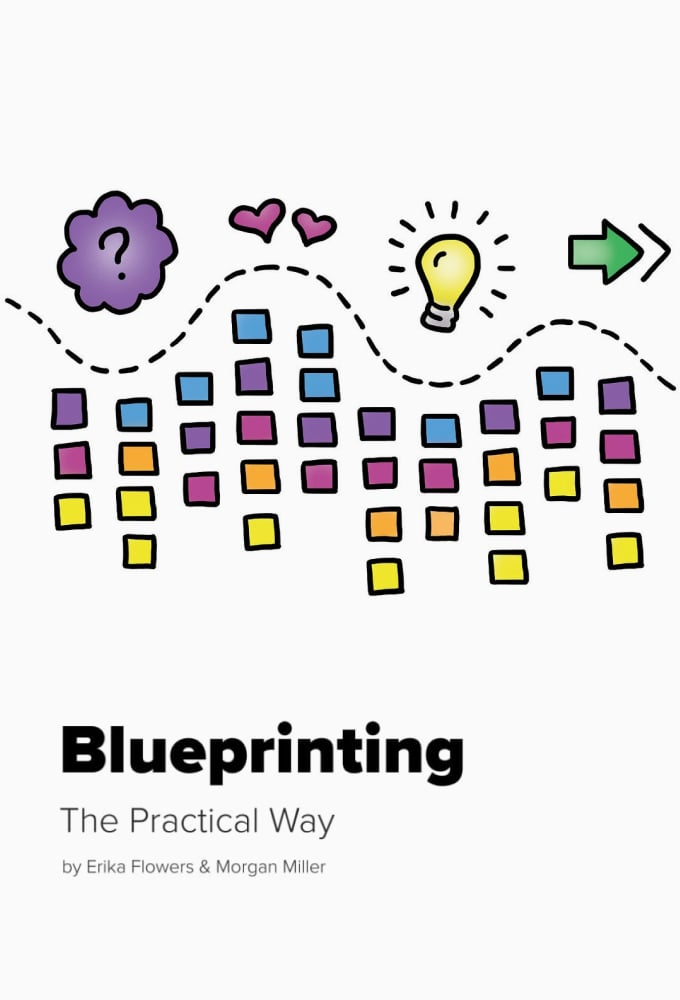
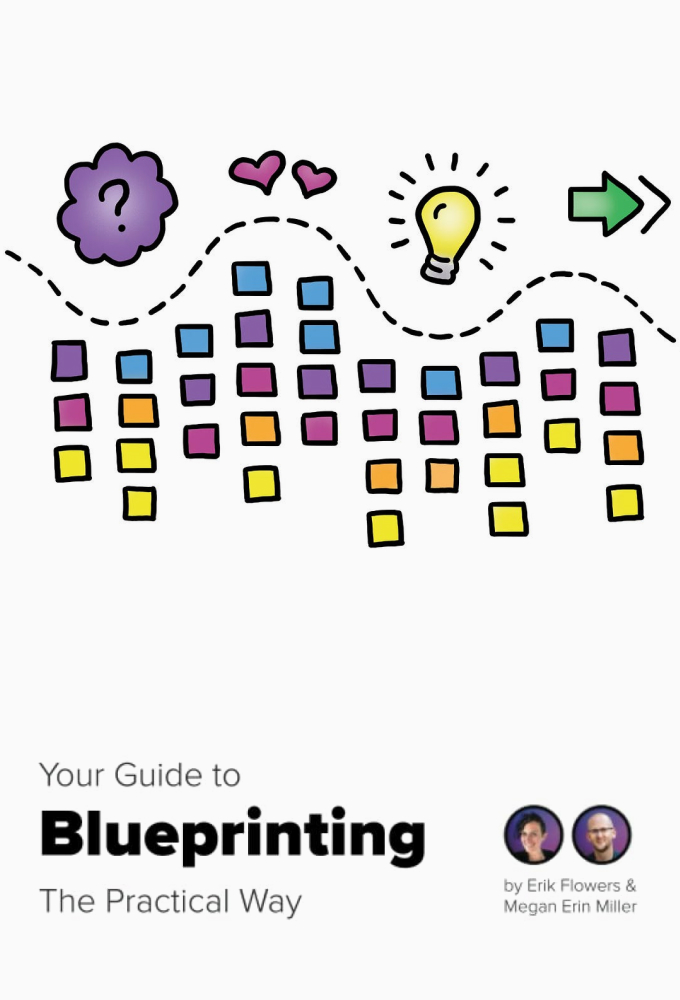
update

Changed region(s): [[0.0, 0.124, 1.0, 0.62], [0.0618, 0.713, 0.6794, 0.93], [0.7412, 0.806, 0.9265, 0.93]]

diff --git a/src/constants/books.ts b/src/constants/books.ts
@@ -2,40 +2,6 @@ import { Book } from '@/types/Book';
 
 export const books: Book[] = [
 	{
-		title: 'Your Guide to Blueprinting the Practical Way',
-		slug: `blueprinting-the-practical-way`,
-		authors: [
-			{
-				name: 'Erika Flowers',
-				link: 'https://www.helloerikaflowers.com/',
-			},
-			{
-				name: 'Morgan Miller',
-				link: 'https://www.linkedin.com/in/morganbrandonmiller/',
-			},
-		],
-		coverImage: '/books/flowers.jpg',
-		metadata: {
-			shortname: 'Blueprinting the Practical Way',
-			blurb: 'A practical guide to blueprinting, covering essential techniques for creating detailed and accurate blueprints for various projects.',
-			genre: 'Technical Design',
-			pageCount: 250,
-			publisher: 'Technical Publications Inc.',
-			publishYear: 2024,
-		},
-		link: {
-			amazon: 'https://amzn.to/4lDainY',
-			goodreads:
-				'https://www.goodreads.com/book/show/64406200-your-guide-to-blueprinting-the-practical-way',
-		},
-		quote: {
-			attribute: 'Erika Flowers & Morgan Miller',
-			text: 'Blueprinting is more than just drawing lines; it’s about visualizing the future and making it tangible.',
-		},
-		personalComment:
-			'Flowers and Miller demystify blueprinting with hands-on advice and clear visuals. This book is a boon for students and professionals seeking to master the art of technical drawings. It bridges the gap between theory and practice, ensuring readers can confidently create blueprints that translate into real-world results. A must-read for anyone serious about precision and accuracy in design.',
-	},
-	{
 		title: 'Designing Interfaces: Patterns for Effective Interaction Design',
 		slug: `designing-interfaces-patterns-for-effective-interaction-design`,
 		authors: [
@@ -63,7 +29,7 @@ export const books: Book[] = [
 			text: 'A user interface is well-designed when the program behaves exactly how the user thought it would.',
 		},
 		personalComment:
-			'This book distills decades of interface design wisdom into clear, reusable patterns that solve real-world challenges. It’s not just about making things look good—it’s about making systems understandable, predictable, and humane. For UX designers, this is a reference manual for creating interfaces that align with human expectations and support user goals. It strengthens your design vocabulary and provides a shared language for working across disciplines. If you’re serious about designing with clarity, empathy, and intent, Designing Interfaces is essential—it bridges aesthetics with behavioural insight and shows how small design choices can create big impact.',
+			'Designing Interfaces is essential reading for anyone serious about designing for clarity, empathy, and intent. It book distills decades of interface design wisdom into clear, reusable patterns that address real-world challenges. It’s not just about making things look good—it’s about making systems more understandable, more predictable, and more humane.\n\nIt’s a reference manual for building interfaces that align with human expectations and support real goals. It connects aesthetics with behavioural insight and shows how small design decisions shape meaningful experiences. It sharpens your design vocabulary and creates a shared language for working across disciplines.\n\n ',
 	},
 	{
 		title: 'The Decision Book: Fifty Models for Strategic Thinking',
@@ -71,9 +37,11 @@ export const books: Book[] = [
 		authors: [
 			{
 				name: 'Mikael Krogerus',
+				link: 'https://de.wikipedia.org/wiki/Mikael_Krogerus',
 			},
 			{
 				name: 'Roman Tschäppeler',
+				link: 'https://de.wikipedia.org/wiki/Roman_Tsch%C3%A4ppeler',
 			},
 		],
 		coverImage: '/books/krogerus.jpg',
@@ -388,8 +356,7 @@ export const books: Book[] = [
 			attribute: 'Nir Eyal',
 			text: 'The goal is not to resist every distraction, but to manage them.',
 		},
-		personalComment:
-			'Eyal provides a practical toolkits for reclaiming focus (and as designers, not stealing it from others). In an age of constant pings and notifications, this book offers a framework for understanding the root causes of distraction and actionable strategies for building habits that stick. It talks about connecting action with intention, and controlling time and attention.',
+		personalComment: `In a world where products are designed to hijack attention, this book flips the lens: how do we protect our focus—and respect others? Eyal offers a framework for recognising distraction, managing internal triggers, and aligning actions with intent. For designers, this isn’t just self-help. It’s a wake-up call. We shape the digital environments that either support or sabotage attention. Indistractable pushes you to think about ethical design from the inside out. If your work nudges behaviour, this book helps you take responsibility for what—and who—you’re nudging. Clear, actionable, and refreshingly candid, it’s also a toolkit for managing your time, focus, and workflow. Not to be productive for productivity’s sake, but to protect what matters.`,
 	},
 	{
 		title: 'Information Architecture: Blueprints for the Web',
@@ -759,5 +726,39 @@ export const books: Book[] = [
 		},
 		personalComment:
 			"The first book published by O’Reilly Books, 'The Whole Internet' is a a snapshot of the early web: messy, open, and full of possibility. A reminder of the internet’s original spirit: decentralised, user-driven, and experimental. While very outdated, it offers a perspective on how far we’ve come—and what we may have lost. It's important for people building on the internet to reconnect with a more human, curious, and DIY approach to designing spaces.",
+	},
+	{
+		title: 'Your Guide to Blueprinting the Practical Way',
+		slug: `blueprinting-the-practical-way`,
+		authors: [
+			{
+				name: 'Erika Flowers',
+				link: 'https://www.helloerikaflowers.com/',
+			},
+			{
+				name: 'Morgan Miller',
+				link: 'https://www.linkedin.com/in/morganbrandonmiller/',
+			},
+		],
+		coverImage: '/books/flowers.jpg',
+		metadata: {
+			shortname: 'Blueprinting the Practical Way',
+			blurb: 'A practical guide to blueprinting, covering essential techniques for creating detailed and accurate blueprints for various projects.',
+			genre: 'Technical Design',
+			pageCount: 250,
+			publisher: 'Technical Publications Inc.',
+			publishYear: 2024,
+		},
+		link: {
+			amazon: 'https://amzn.to/4lDainY',
+			goodreads:
+				'https://www.goodreads.com/book/show/64406200-your-guide-to-blueprinting-the-practical-way',
+		},
+		quote: {
+			attribute: 'Erika Flowers & Morgan Miller',
+			text: 'Blueprinting is more than just drawing lines; it’s about visualizing the future and making it tangible.',
+		},
+		personalComment:
+			'Flowers and Miller demystify blueprinting with hands-on advice and clear visuals. This book is a boon for students and professionals seeking to master the art of technical drawings. It bridges the gap between theory and practice, ensuring readers can confidently create blueprints that translate into real-world results. A must-read for anyone serious about precision and accuracy in design.',
 	},
 ];

diff --git a/src/app/page.tsx b/src/app/page.tsx
@@ -7,13 +7,13 @@ export default function Home() {
 	return (
 		<>
 			{/* Content section - grows to fill available space */}
-			<div className='flex-grow grid grid-cols-1 lg:grid-cols-12 w-full h-full'>
+			<div className='flex-grow grid grid-cols-1 lg:grid-cols-12 w-full'>
 				{/* Header - full width on mobile, 4 columns on md+ screens */}
 				<Header />
 
 				{/* Main content with Books - full width on mobile, 8 columns on lg+ screens */}
-				<main className='bones-page-main col-span-full lg:col-span-8 min-h-[60vh] p-4 lg:p-8 bg-bones-linen dark:bg-bones-darkgray flex'>
-					<div className='flex flex-col justify-center flex-grow'>
+				<main className='bones-page-main col-span-full lg:col-span-8 min-h-[60vh] p-4 lg:p-8 bg-bones-linen dark:bg-bones-black flex'>
+					<div className='flex flex-col justify-center flex-grow mx-auto'>
 						<Suspense
 							fallback={<BooksSkeleton className='h-full' />}>
 							<Books className='h-auto' />

diff --git a/src/components/BookDetail.tsx b/src/components/BookDetail.tsx
@@ -42,13 +42,17 @@ const BookDetail: React.FC<BookProps> = ({ book }) => {
 
 				{book.metadata.blurb && (
 					<p className='italic font-medium text-bones-black dark:text-bones-linen'>
-						&quot;{book.metadata.blurb}&quot;
+						{book.metadata.blurb}
 					</p>
 				)}
 
-				<p className='font-medium text-bones-black dark:text-bones-linen'>
-					{book.personalComment}
-				</p>
+				{book.personalComment.split('\n\n').map((paragraph, index) => (
+					<p
+						className='font-medium text-bones-black dark:text-bones-linen'
+						key={index}>
+						{paragraph}
+					</p>
+				))}
 
 				{links.length > 0 && (
 					<div className='flex flex-wrap gap-4'>
